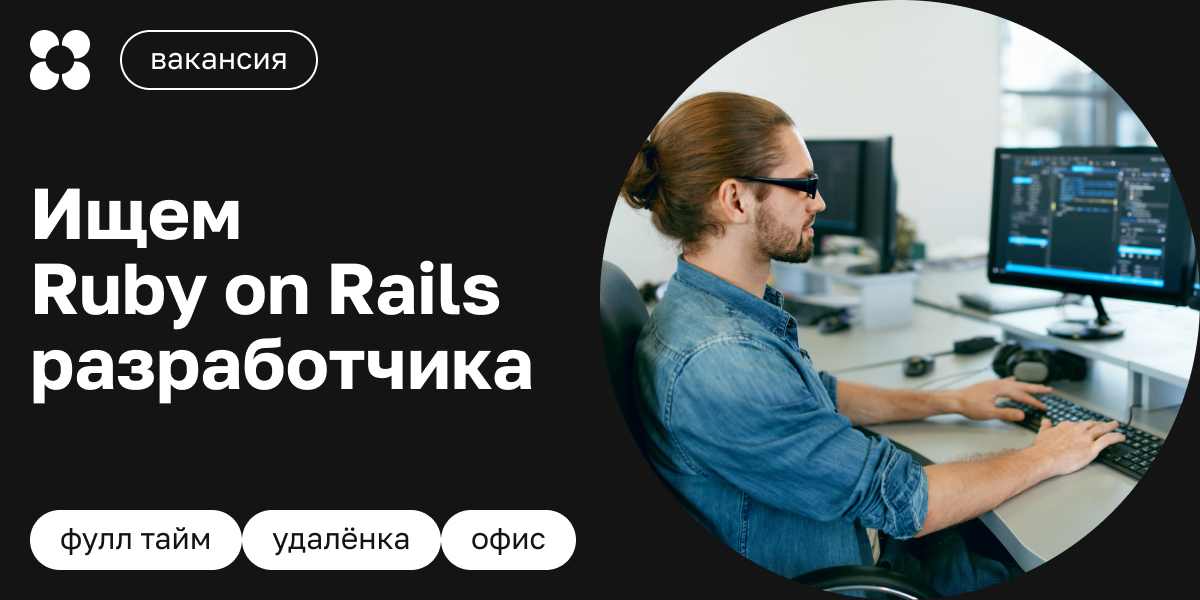
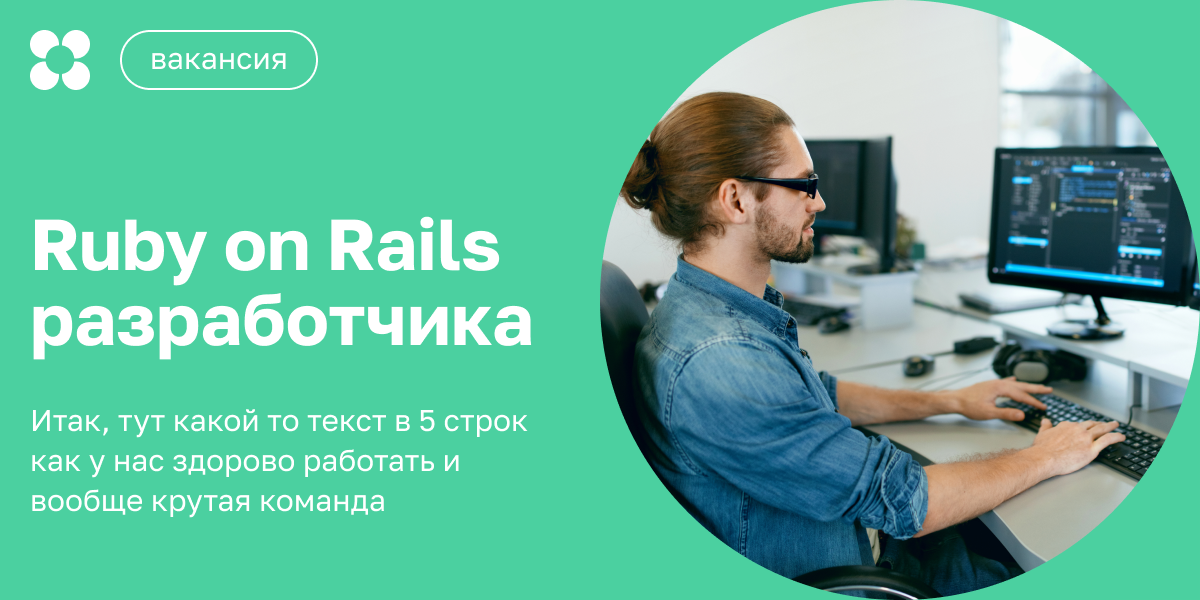
1

diff --git a/style.css b/style.css
@@ -52,7 +52,7 @@ h1 {
     font-size: 72px;
     line-height: 75px;
     margin-top: 0;
-    margin-bottom: 45px;
+    margin-bottom: 30px;
 }
 
 p {
@@ -81,17 +81,18 @@ p {
     color: white;
 }
 
-.banner .head {
+.head {
+    display: flex;
     margin-bottom: 84px;
 }
 
-.banner .text {
+.text {
     width: 570px;
     padding-top: 30px;
     padding-bottom: 30px;
 }
 
-.banner .circle {
+.circle {
     width: 600px;
     height: 600px;
     border-radius: 600px;
@@ -108,7 +109,7 @@ p {
  {
     height: 60px;
     background-size: contain;
-    display: inline-block;
+    line-height: 58px;
 }
 
 .logo {
@@ -133,4 +134,16 @@ p {
     padding-right: 30px;
     margin-left: 0;
     margin-right: 0;
+}
+
+.tag_stroke {
+    color: white;
+    border: 2px solid white;
+    border-radius: 30px;
+    padding-left: 30px;
+    padding-right: 30px;
+    margin-left: 0;
+    margin-right: 0;
+    font-size: 30px;
+    /* line-height: 36px; */
 }

diff --git a/index.html b/index.html
@@ -6,12 +6,11 @@
         <link rel="stylesheet" href="style.css">
     </head>
     <body>
-        <div class="ref"></div>
-        <div class="banner">
+        <div class="banner" id="banner">
             <div class="text">
                 <div class="head">
                     <div class="logo"></div>
-                    <div class="tag_vacancy"></div>
+                    <div class="tag_stroke tag_vacancy">вакансия</div>
                 </div>
                 <div class="title">
                     <h1>Название вакансии</h1>
@@ -28,6 +27,7 @@
             <div class="circle">
             </div>
         </div>
+        <input id="clickMe" type="button" value="clickme" onclick="html2canvas();" />
         <script src="html2canvas.js"></script>
         <script src="script.js"></script>
     </body>

diff --git a/script.js b/script.js
@@ -1,0 +1,3 @@
+html2canvas(document.querySelector("#banner")).then(canvas => {
+    document.body.appendChild(canvas)
+});
